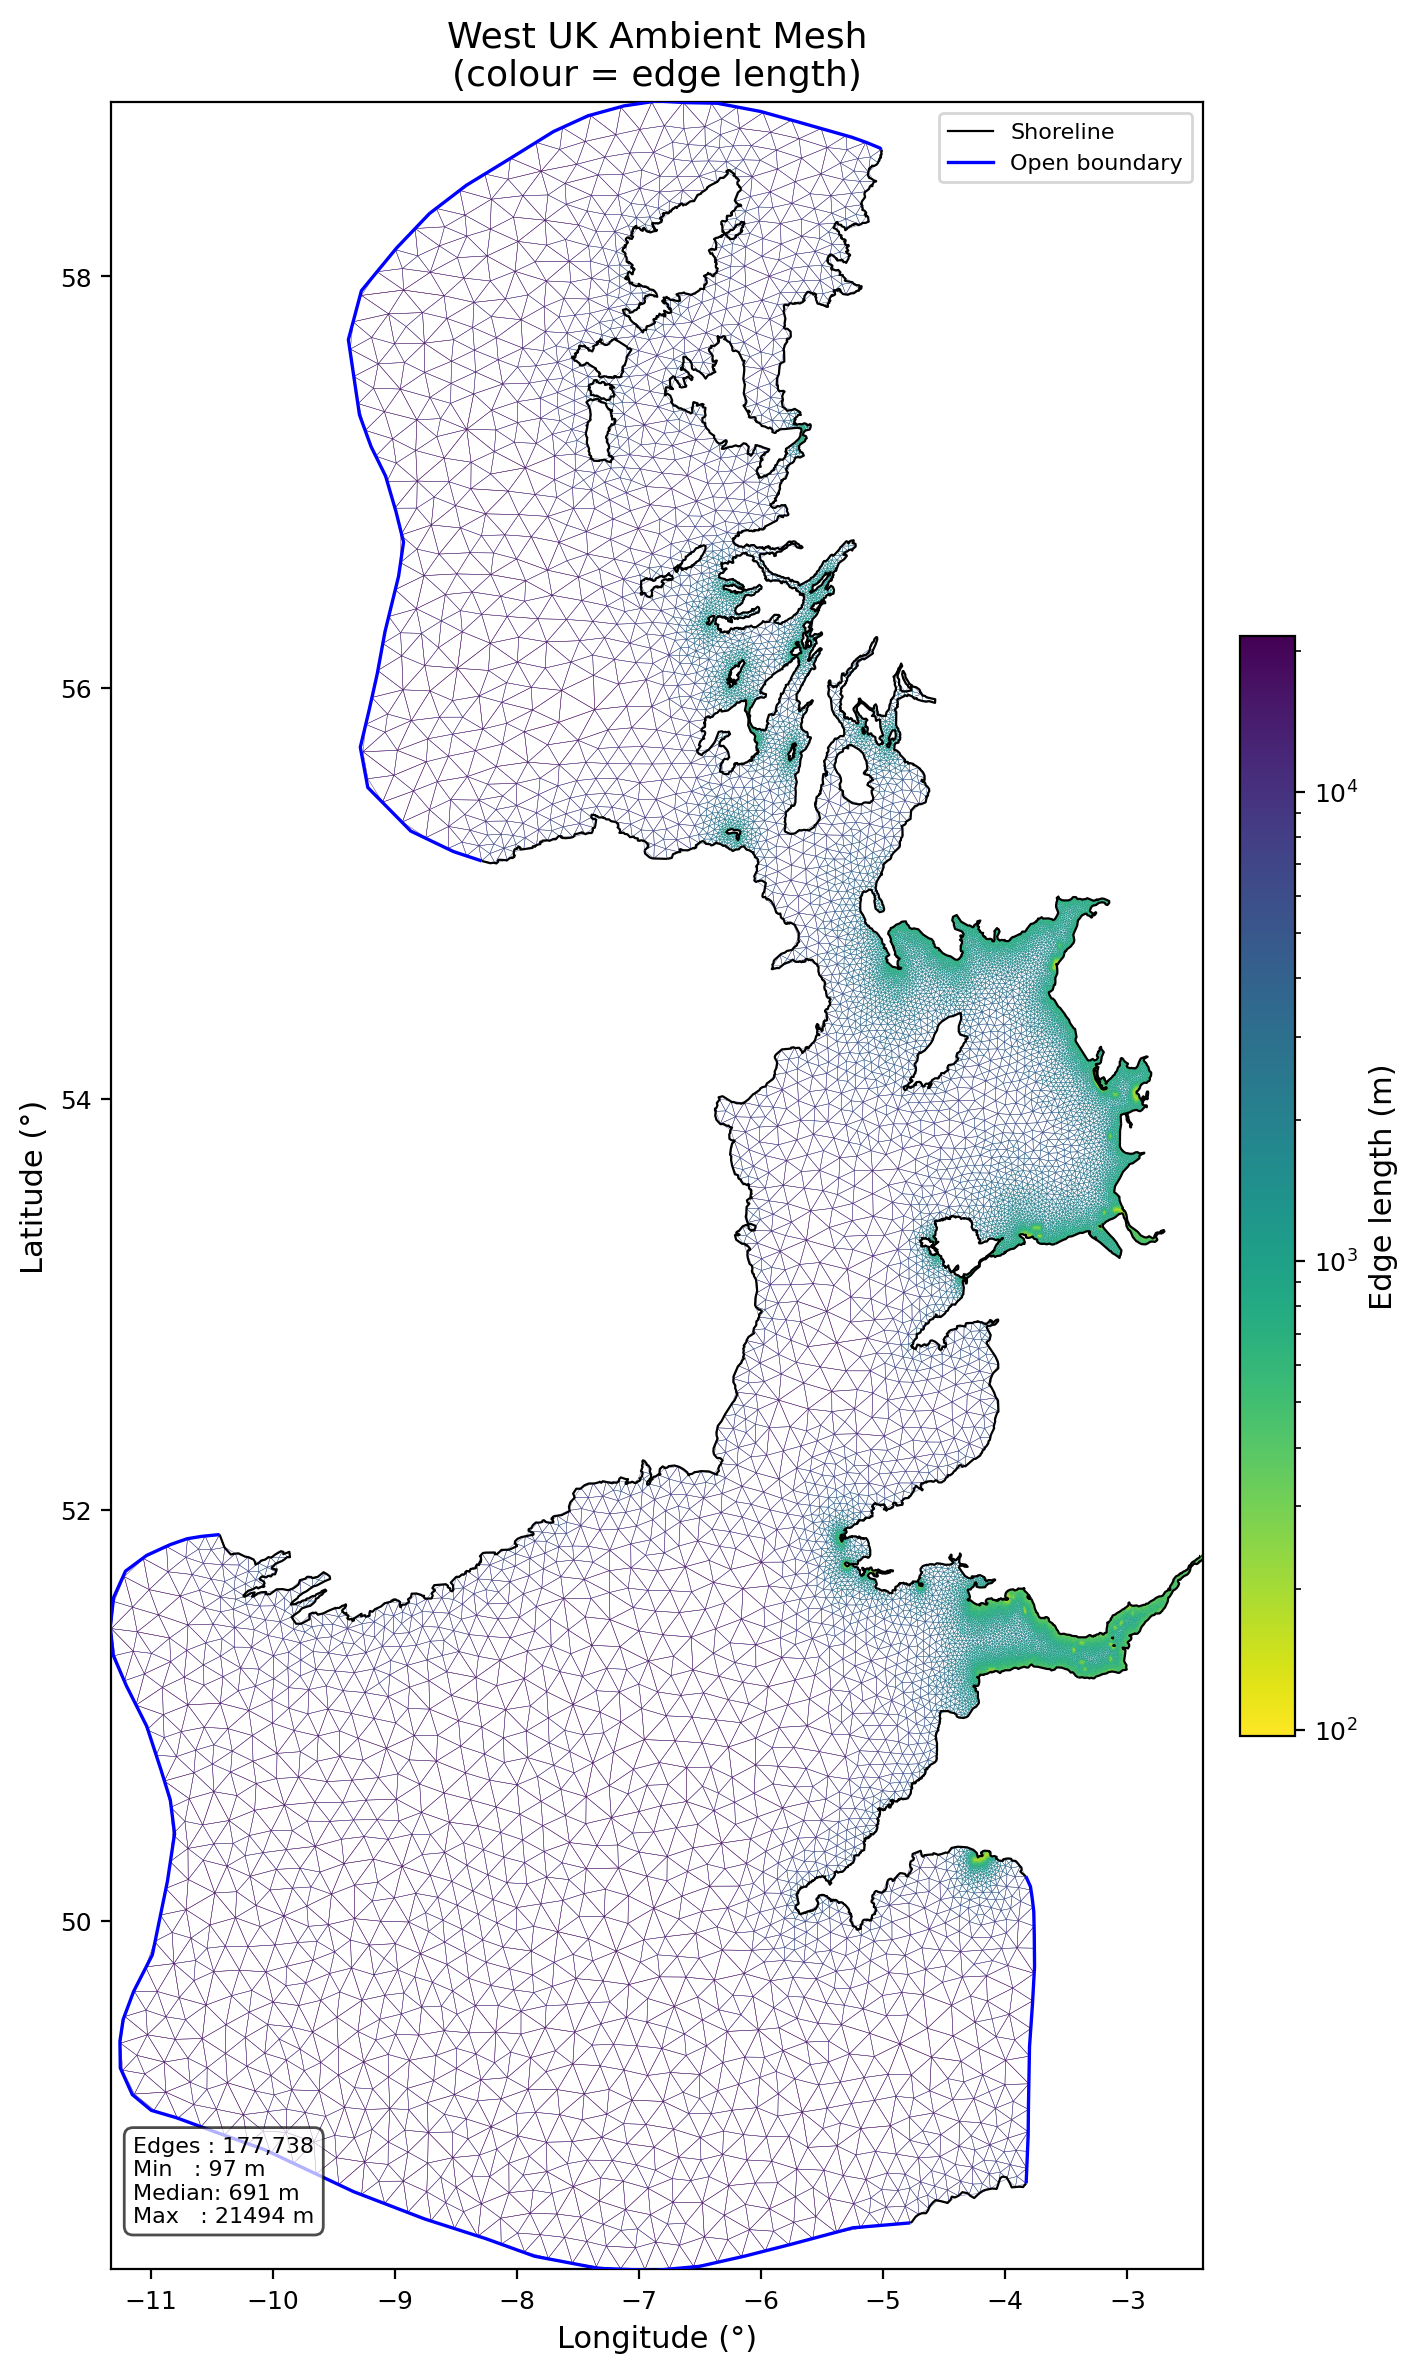
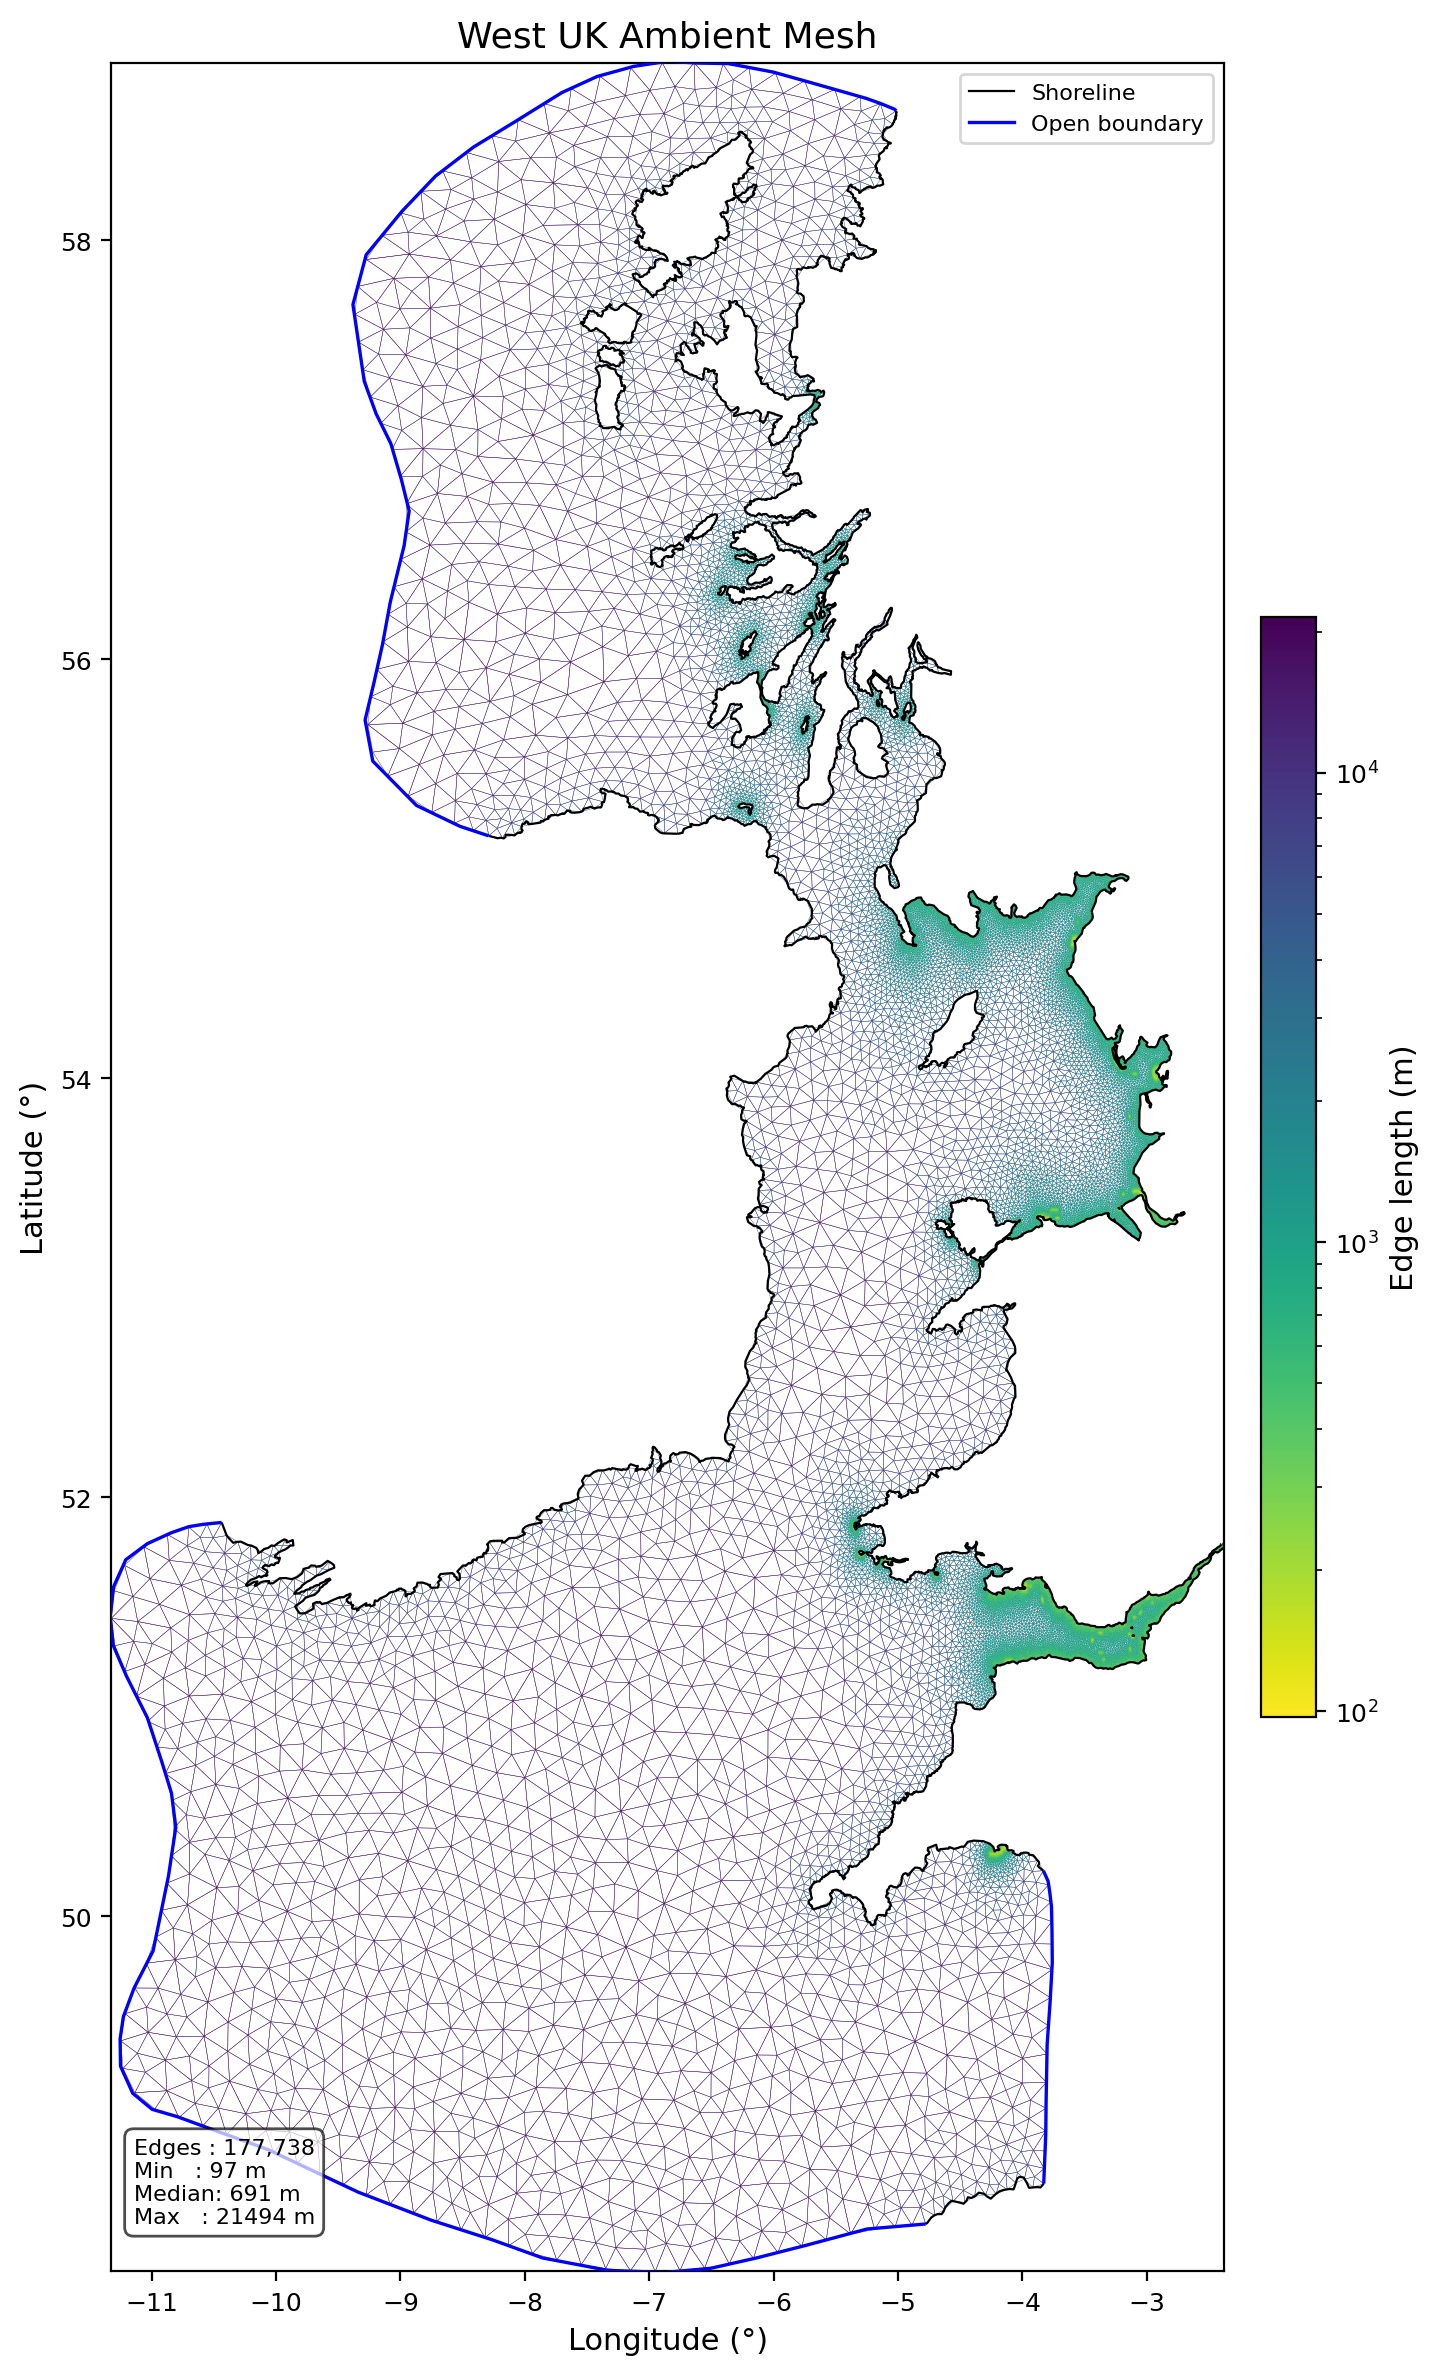
clean up plot title

Changed region(s): [[0.031, 0.0, 0.9929, 0.9979], [0.0, 0.4678, 0.031, 0.5301]]

diff --git a/plot_mesh.py b/plot_mesh.py
@@ -87,7 +87,7 @@ cbar.ax.tick_params(labelsize=9)
 # Labels
 ax.set_xlabel("Longitude (°)", fontsize=11)
 ax.set_ylabel("Latitude (°)", fontsize=11)
-ax.set_title("West UK Ambient Mesh\n(colour = edge length)", fontsize=13)
+ax.set_title("West UK Ambient Mesh", fontsize=13)
 ax.tick_params(labelsize=9)
 
 # Legend for boundary overlays
